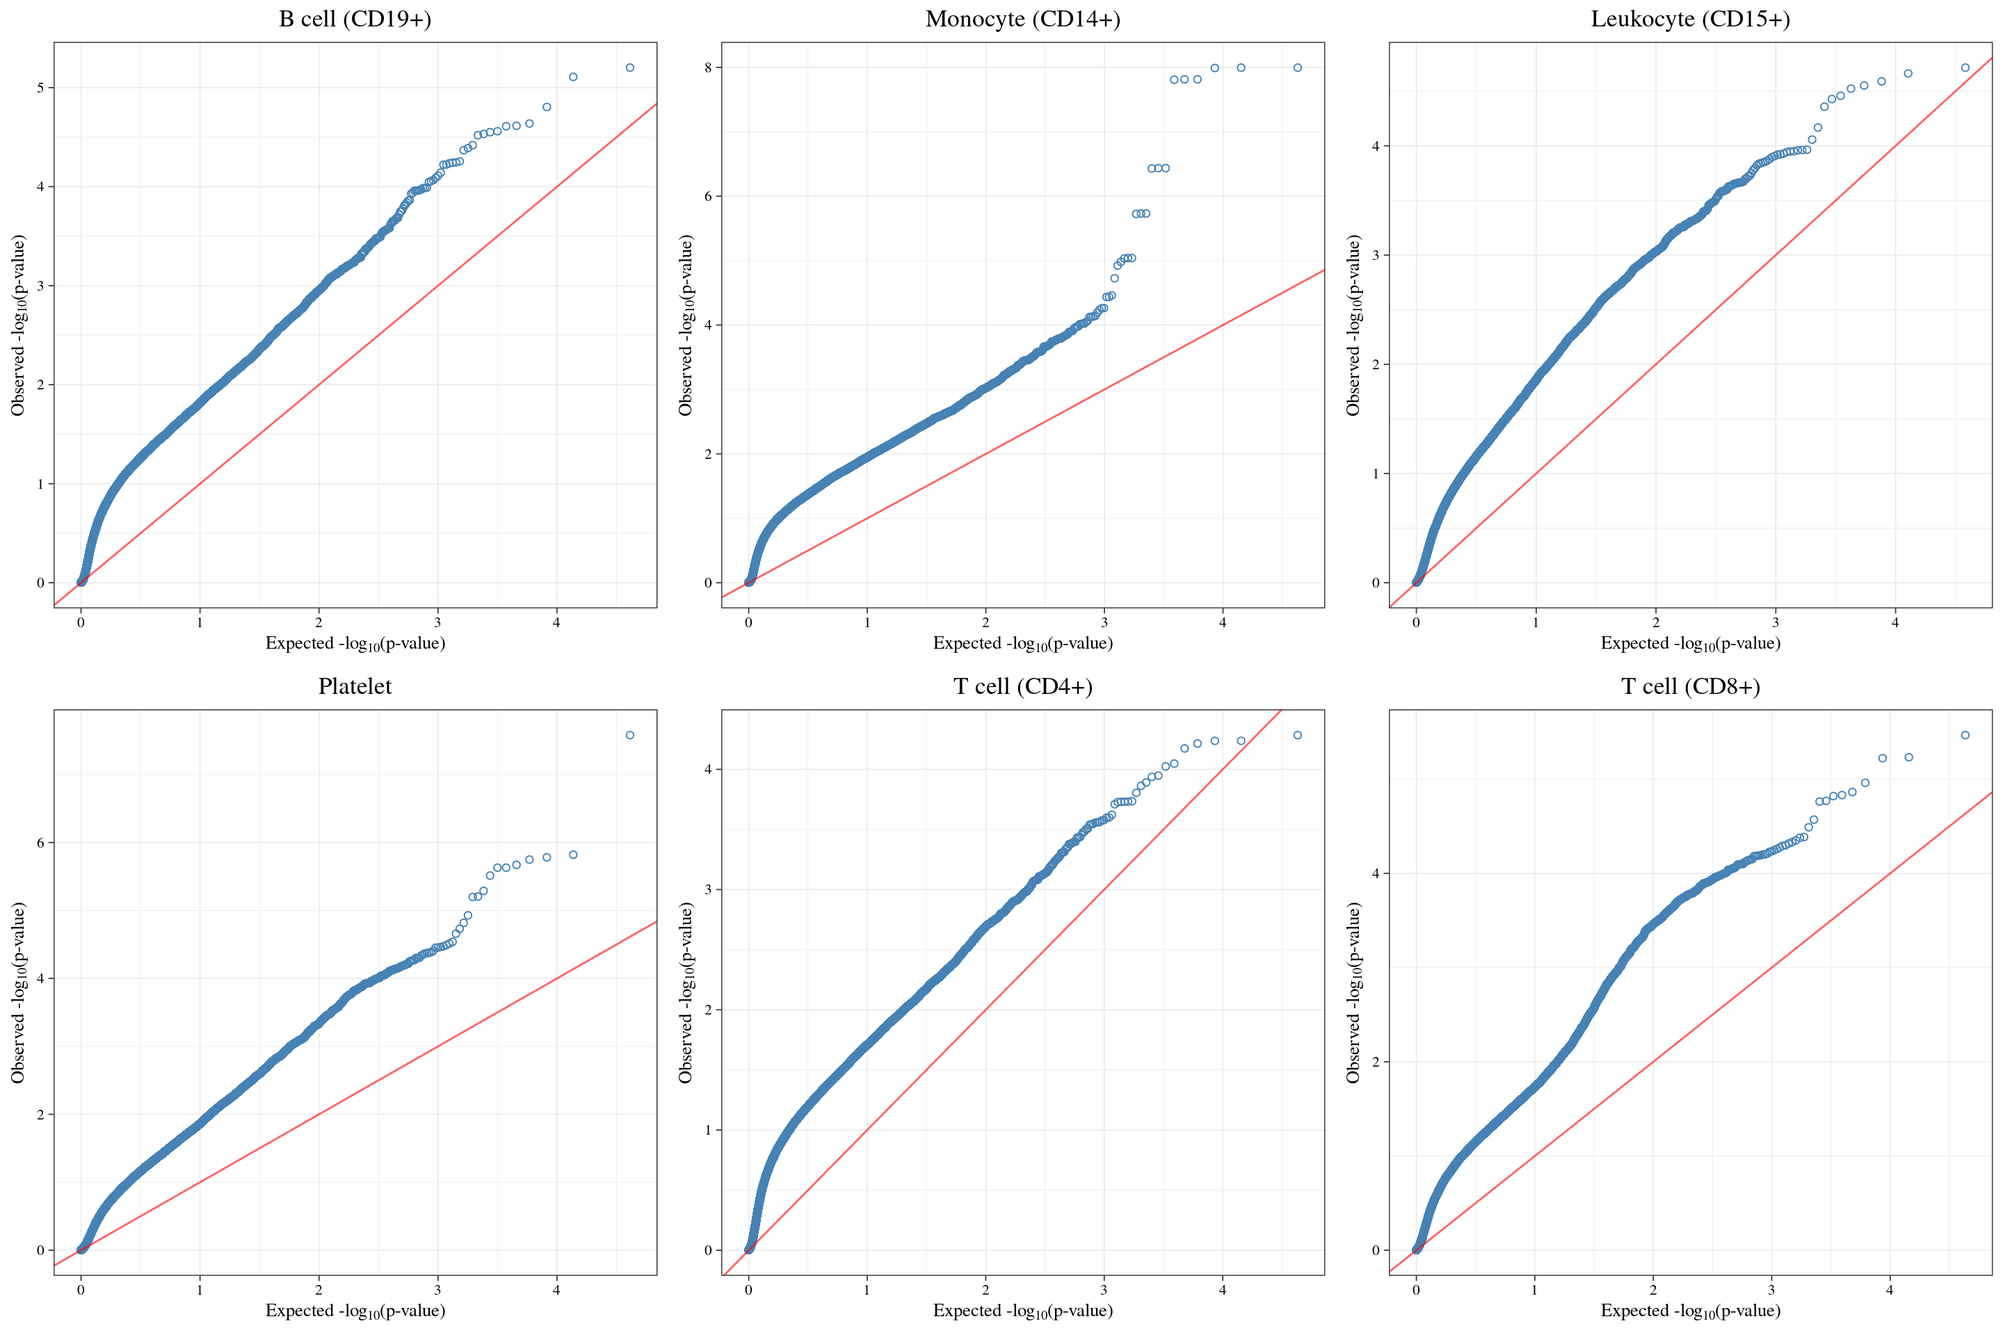
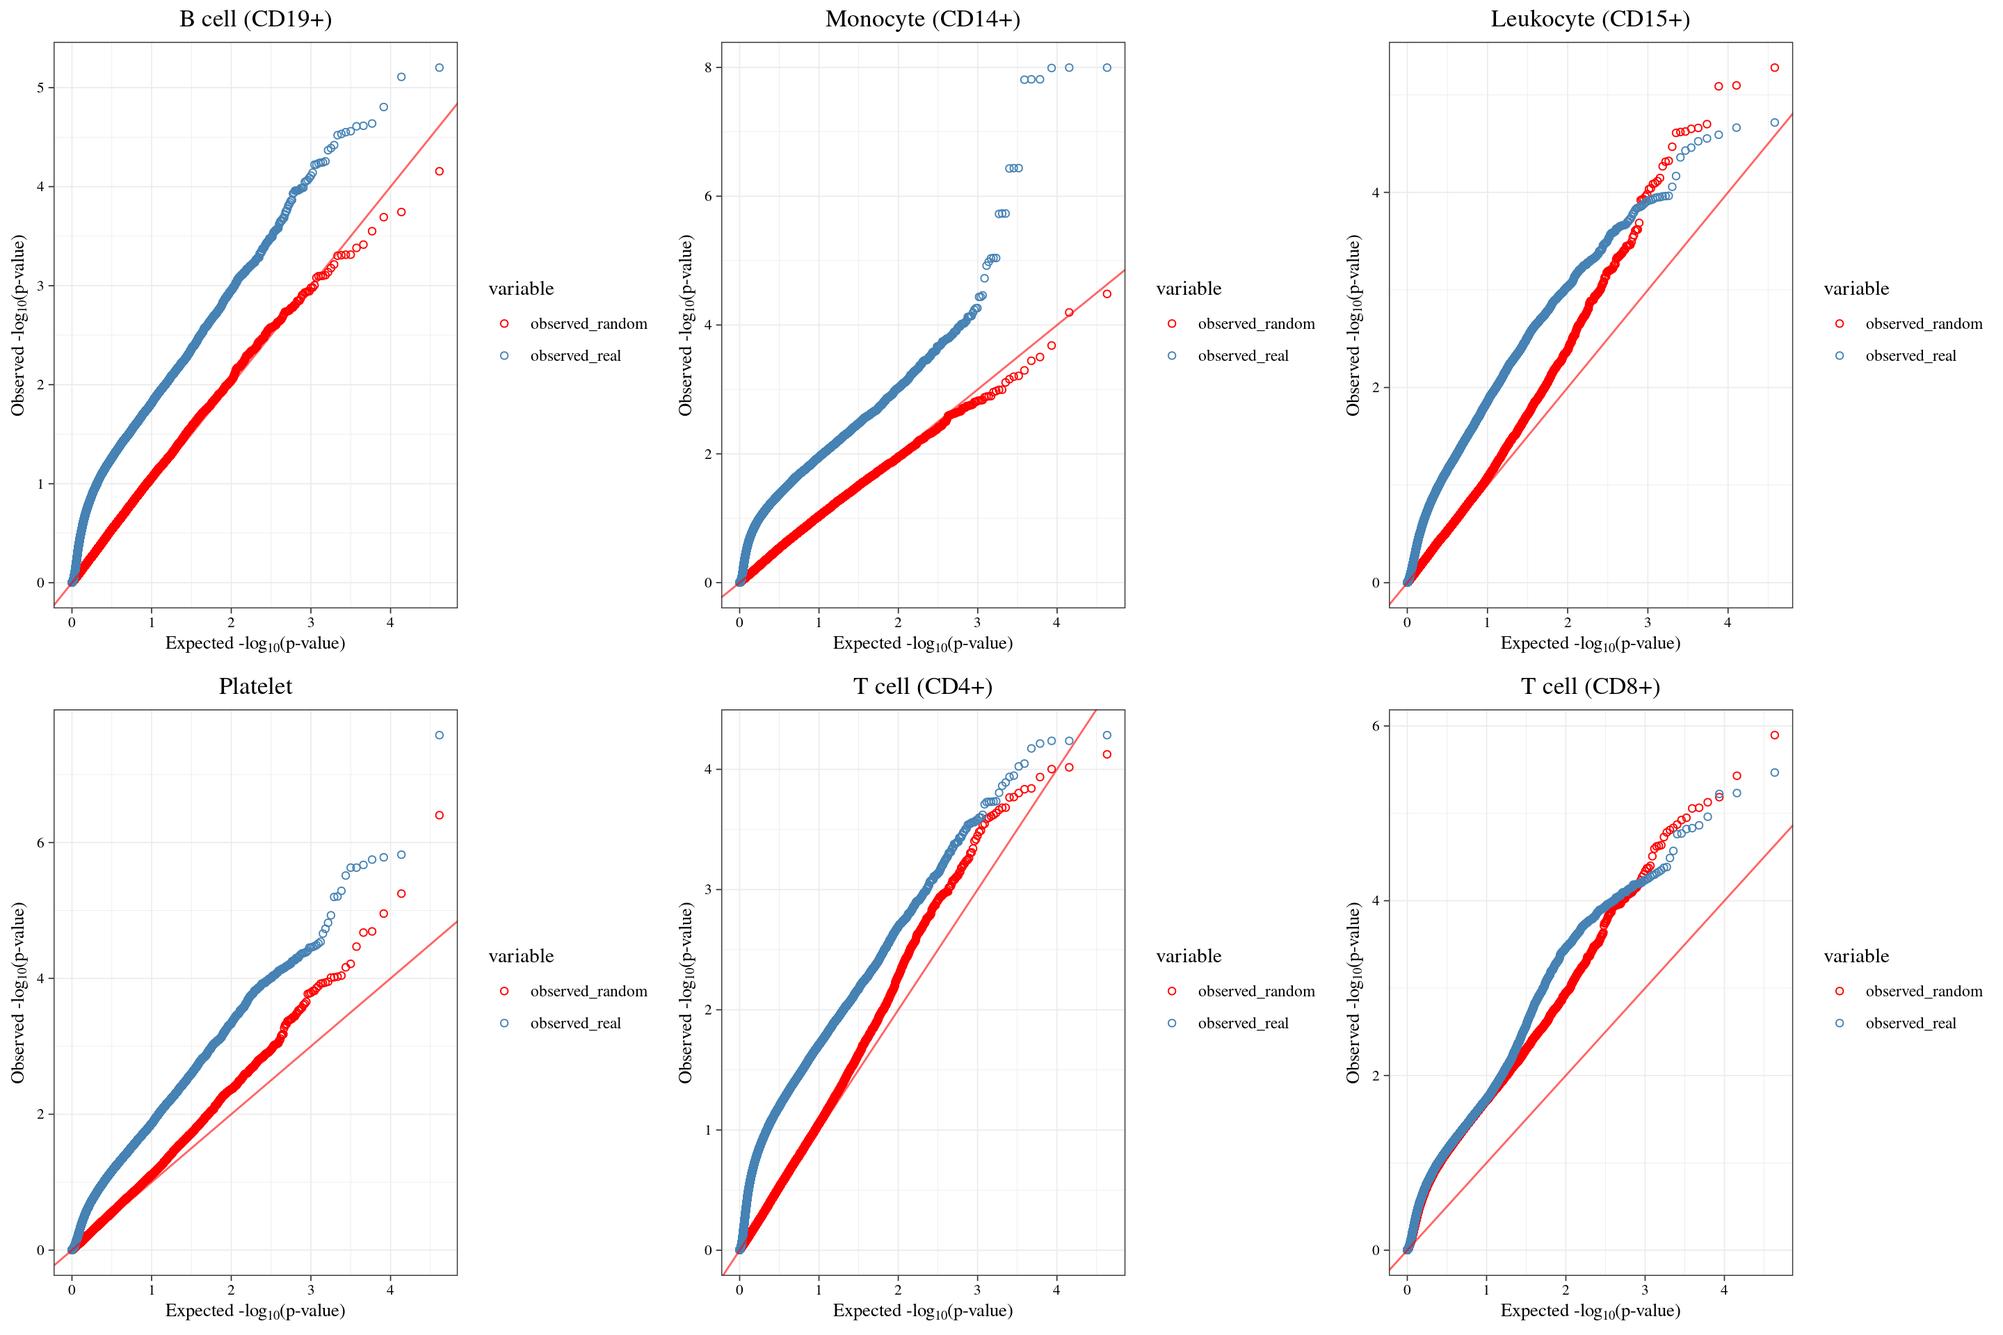
update

diff --git a/docs/ACAT_random.html b/docs/ACAT_random.html
@@ -382,7 +382,7 @@ div.tocify {
 <div class="tab-content">
 <div id="summary" class="tab-pane fade in active">
 <p>
-<strong>Last updated:</strong> 2022-08-17
+<strong>Last updated:</strong> 2022-09-02
 </p>
 <p>
 <strong>Checks:</strong> <span class="glyphicon glyphicon-ok text-success" aria-hidden="true"></span> 6 <span class="glyphicon glyphicon-exclamation-sign text-danger" aria-hidden="true"></span> 1
@@ -473,16 +473,16 @@ This reproducible <a href="http://rmarkdown.rstudio.com">R Markdown</a> analysis
 <div class="panel panel-default">
 <div class="panel-heading">
 <p class="panel-title">
-<a data-toggle="collapse" data-parent="#workflowr-checks" href="#strongRepositoryversionstrongahrefhttpsgithubcomxsun1229factoranalysistreee4382dd341f0e01d3d231418c2463ec88777fc6ftargetblanke4382dda"> <span class="glyphicon glyphicon-ok text-success" aria-hidden="true"></span> <strong>Repository version:</strong> <a href="https://github.com/xsun1229/factor_analysis/tree/e4382dd341f0e01d3d231418c2463ec88777fc6f" target="_blank">e4382dd</a> </a>
+<a data-toggle="collapse" data-parent="#workflowr-checks" href="#strongRepositoryversionstrongahrefhttpsgithubcomxsun1229factoranalysistreef80ea6929a1afd813a43aea04e8529aa29d9f3e7targetblankf80ea69a"> <span class="glyphicon glyphicon-ok text-success" aria-hidden="true"></span> <strong>Repository version:</strong> <a href="https://github.com/xsun1229/factor_analysis/tree/f80ea6929a1afd813a43aea04e8529aa29d9f3e7" target="_blank">f80ea69</a> </a>
 </p>
 </div>
[2 lines of base64/hex data omitted]
 <div class="panel-body">
 <p>
 Great! You are using Git for version control. Tracking code development and connecting the code version to the results is critical for reproducibility.
 </p>
 <p>
-The results in this page were generated with repository version <a href="https://github.com/xsun1229/factor_analysis/tree/e4382dd341f0e01d3d231418c2463ec88777fc6f" target="_blank">e4382dd</a>. See the <em>Past versions</em> tab to see a history of the changes made to the R Markdown and HTML files.
+The results in this page were generated with repository version <a href="https://github.com/xsun1229/factor_analysis/tree/f80ea6929a1afd813a43aea04e8529aa29d9f3e7" target="_blank">f80ea69</a>. See the <em>Past versions</em> tab to see a history of the changes made to the R Markdown and HTML files.
 </p>
 <p>
 Note that you need to be careful to ensure that all relevant files for the analysis have been committed to Git prior to generating the results (you can use <code>wflow_publish</code> or <code>wflow_git_commit</code>). workflowr only checks the R Markdown file, but you know if there are other scripts or data files that it depends on. Below is the status of the Git repository when the results were generated:
@@ -492,7 +492,6 @@ Ignored files:
     Ignored:    .RData
     Ignored:    .Rhistory
     Ignored:    analysis/.Rhistory
-    Ignored:    analysis/figure/
     Ignored:    output/.Rhistory
 
 Unstaged changes:
@@ -535,6 +534,57 @@ Message
 </tr>
 </thead>
 <tbody>
+<tr>
+<td>
+Rmd
+</td>
+<td>
+<a href="https://github.com/xsun1229/factor_analysis/blob/f80ea6929a1afd813a43aea04e8529aa29d9f3e7/analysis/ACAT_random.Rmd" target="_blank">f80ea69</a>
+</td>
+<td>
+XSun
+</td>
+<td>
+2022-08-29
+</td>
+<td>
+update
+</td>
+</tr>
+<tr>
+<td>
+Rmd
+</td>
+<td>
+<a href="https://github.com/xsun1229/factor_analysis/blob/b1b827a3c736cb2f5d5f1287cf2eef72e169a69e/analysis/ACAT_random.Rmd" target="_blank">b1b827a</a>
+</td>
+<td>
+XSun
+</td>
+<td>
+2022-08-17
+</td>
+<td>
+update
+</td>
+</tr>
+<tr>
+<td>
+html
+</td>
+<td>
+<a href="https://rawcdn.githack.com/xsun1229/factor_analysis/b1b827a3c736cb2f5d5f1287cf2eef72e169a69e/docs/ACAT_random.html" target="_blank">b1b827a</a>
+</td>
+<td>
+XSun
+</td>
+<td>
+2022-08-17
+</td>
+<td>
+update
+</td>
+</tr>
 <tr>
 <td>
 Rmd
@@ -1345,8 +1395,10 @@ p_acat</code></pre>
 <pre><code>[1] 0.8346754</code></pre>
 </div>
 </div>
-<div id="acat-for-real-data-mhc-removed" class="section level2">
-<h2>ACAT for real data – MHC removed</h2>
+</div>
+<div id="comparing-acat-for-real-data-and-random-data-mhc-removed" class="section level1">
+<h1>Comparing ACAT for real data and random data – MHC removed</h1>
+<p>We found that the variants in MHC area may lead to the deviation in random ACAT. So we removed the SNPs in MHC area and re-plot the qq plots.</p>
 <p><img src="figure/ACAT_random.Rmd/unnamed-chunk-32-1.png" width="1440" style="display: block; margin: auto;" /></p>
 <p>
 <button type="button" class="btn btn-default btn-xs btn-workflowr btn-workflowr-fig" data-toggle="collapse" data-target="#fig-unnamed-chunk-32-1">
@@ -1385,9 +1437,12 @@ XSun
 </table>
 </div>
 </div>
-</div>
-<div id="acat-for-random-data-mhc-removed" class="section level2">
-<h2>ACAT for random data – MHC removed</h2>
+<p>We noticed that there is some inflations for random data (Leukocyte (CD15+), Platelet, T cell (CD8+)). We compute genomic inflation factors for all cell types.</p>
+<p><span class="math display">\[ chisq = qchisq(1-pvalue,1)\]</span> <span class="math display">\[ lambda = \frac{median(chisq)}{qchisq(0.5,1)} \]</span> The lambda are 1.103569 1.110509 1.133734 1.179766 1.045502 4.582142 accordingly.</p>
+<p>Then we corrected the p-values with the inflation factor – lambda (devide the chi-squares by inflation factors accoring to <a href="https://www.ncbi.nlm.nih.gov/pmc/articles/PMC3133943/" class="uri">https://www.ncbi.nlm.nih.gov/pmc/articles/PMC3133943/</a> and compute the p-values):</p>
+<p><span class="math display">\[ chisq_{adjusted} = \frac{chisq}{lambda}\]</span></p>
+<p><span class="math display">\[ pvalue_{adjusted} = 1 - pchisq(chisq_{adjusted}) \]</span></p>
+<p>The adjusted p-values are shown in the qqplots below (comparing unadjusted real p-values).</p>
 <p><img src="figure/ACAT_random.Rmd/unnamed-chunk-33-1.png" width="1440" style="display: block; margin: auto;" /></p>
 <p>
 <button type="button" class="btn btn-default btn-xs btn-workflowr btn-workflowr-fig" data-toggle="collapse" data-target="#fig-unnamed-chunk-33-1">
@@ -1426,11 +1481,7 @@ XSun
 </table>
 </div>
 </div>
-</div>
-</div>
-<div id="correct-original-acat-results-with-random-ones-all-snps-included" class="section level1">
-<h1>Correct original ACAT results with random ones – All SNPs included</h1>
-<p>There is still slight deviation from null in the random SNPs after removing SNPs in MHC area. So we correct for real ACAT p-values using the distribution of ACAT p-values from random SNPs as null. In this way, we got empirical ACAT p-values computed from sum(p_origin[j] &lt; acat_p_random)/length(p_origin).</p>
+<p>We also compared the adjusted random p-values with adjusted real p-values. The inflation factors for real p-values are 5.775381 6.671074 4.687092 4.605726 5.453085 4.84691.</p>
 <p><img src="figure/ACAT_random.Rmd/unnamed-chunk-34-1.png" width="1440" style="display: block; margin: auto;" /></p>
 <p>
 <button type="button" class="btn btn-default btn-xs btn-workflowr btn-workflowr-fig" data-toggle="collapse" data-target="#fig-unnamed-chunk-34-1">
@@ -1469,10 +1520,131 @@ XSun
 </table>
 </div>
 </div>
-</div>
-<div id="correct-original-acat-results-with-random-ones-mhc-area-removed" class="section level1">
-<h1>Correct original ACAT results with random ones – MHC area removed</h1>
-<p><img src="figure/ACAT_random.Rmd/unnamed-chunk-35-1.png" width="1440" style="display: block; margin: auto;" /></p>
+<!-- ```{r echo=FALSE, message=FALSE, warning=FALSE, paged.print=FALSE,fig.height=10, fig.width=15} -->
+<!-- load("/project2/xinhe/xsun/CEDAR/ACAT_randomsnp/ACAT_results_remove_MHC_realdata.rdata") -->
+<!-- type <- c("B cell (CD19+)","Monocyte (CD14+)","Leukocyte (CD15+)","Platelet","T cell (CD4+)","T cell (CD8+)") -->
+<!-- plot <- list() -->
+<!-- for (i in 1:length(type)){ -->
+<!--   p <- acat_allcelltypes[[i]] -->
+<!--   p[is.na(p)] <- 1 -->
+<!--   plotdata <- data.frame(observed = -log10(sort(p)), -->
+<!--                          expected = -log10(ppoints(length(p)))) -->
+<!--   #   -->
+<!--   plot[[i]] <- ggplot(plotdata) + theme_bw(base_line_size =0.3) + -->
+<!--     geom_point(aes(expected, observed), shape = 1, size = 1.5,color = "steelblue") + -->
+<!--     geom_abline(intercept = 0, slope = 1, alpha = 0.6, color = "red") + -->
+<!--     ggtitle(type[i]) + theme(plot.title = element_text(hjust = 0.5)) + -->
+<!--     labs(x = expression(paste("Expected -log"[10],"(p-value)")), -->
+<!--          y = expression(paste("Observed -log"[10],"(p-value)"))) + -->
+<!--     theme(axis.title.x = element_text(size = 10), -->
+<!--           axis.text.x = element_text(size = 8, color = "black"), -->
+<!--           axis.title.y = element_text(size = 10), -->
+<!--           axis.text.y = element_text(size = 8, color = "black"), -->
+<!--           text= element_text(family="Times New Roman"))  -->
+<!-- } -->
+<!-- all <- grid.arrange(plot[[1]],plot[[2]],plot[[3]],plot[[4]],plot[[5]],plot[[6]], nrow = 2) -->
+<!-- ``` -->
+<!-- ## ACAT for random data -- MHC removed -->
+<!-- ```{r echo=FALSE, message=FALSE, warning=FALSE, paged.print=FALSE,fig.height=10, fig.width=15} -->
+<!-- load("/project2/xinhe/xsun/CEDAR/ACAT_randomsnp/ACAT_results_remove_MHC_random.rdata") -->
+<!-- type <- c("B cell (CD19+)","Monocyte (CD14+)","Leukocyte (CD15+)","Platelet","T cell (CD4+)","T cell (CD8+)") -->
+<!-- plot <- list() -->
+<!-- for (i in 1:length(type)){ -->
+<!--   p <- acat_allcelltypes[[i]] -->
+<!--   p[is.na(p)] <- 1 -->
+<!--   plotdata <- data.frame(observed = -log10(sort(p)), -->
+<!--                          expected = -log10(ppoints(length(p)))) -->
+<!--   #   -->
+<!--   plot[[i]] <- ggplot(plotdata) + theme_bw(base_line_size =0.3) + -->
+<!--     geom_point(aes(expected, observed), shape = 1, size = 1.5,color = "steelblue") + -->
+<!--     geom_abline(intercept = 0, slope = 1, alpha = 0.6, color = "red") + -->
+<!--     ggtitle(type[i]) + theme(plot.title = element_text(hjust = 0.5)) + -->
+<!--     labs(x = expression(paste("Expected -log"[10],"(p-value)")), -->
+<!--          y = expression(paste("Observed -log"[10],"(p-value)"))) + -->
+<!--     theme(axis.title.x = element_text(size = 10), -->
+<!--           axis.text.x = element_text(size = 8, color = "black"), -->
+<!--           axis.title.y = element_text(size = 10), -->
+<!--           axis.text.y = element_text(size = 8, color = "black"), -->
+<!--           text= element_text(family="Times New Roman"))  -->
+<!-- } -->
+<!-- all <- grid.arrange(plot[[1]],plot[[2]],plot[[3]],plot[[4]],plot[[5]],plot[[6]], nrow = 2) -->
+<!-- ``` -->
+<!-- # Correct original ACAT results with random ones -- All SNPs included -->
+<!-- There is still slight deviation from null in the random SNPs after removing SNPs in MHC area. So we correct for real ACAT p-values using the distribution of ACAT p-values from random SNPs as null. In this way, we got empirical ACAT p-values computed from   sum(p_origin[j] < acat_p_random)/length(p_origin). -->
+<!-- ```{r echo=FALSE, message=FALSE, warning=FALSE, paged.print=FALSE,fig.height=10, fig.width=15} -->
+<!-- setwd("/project2/xinhe/xsun/CEDAR/") -->
+<!-- type <- c("B cell (CD19+)","Monocyte (CD14+)","Leukocyte (CD15+)","Platelet","T cell (CD4+)","T cell (CD8+)") -->
+<!-- path <- c("4.B_cell_kegg","6.CD14_positive_monocyte_kegg","8.CD15_positive_leukocyte_kegg","16.platelet_kegg","10.T_cell_kegg","14.thymocyte_kegg") -->
+<!-- load("/project2/xinhe/xsun/CEDAR/ACAT_randomsnp/ACAT_results.rdata") -->
+<!-- p_correct_allcelltypes <- list() -->
+<!-- for (i in 1:length(type)){ -->
+<!--   file <- paste0("/project2/xinhe/xsun/CEDAR/",path[i],"/7.geneset40_peer/acat.rdata") -->
+<!--   load(file) -->
+<!--   p_origin <- as.numeric(list$pval_acat) -->
+<!--   acat_cell_random <- acat_allcelltypes[[i]] -->
+<!--   acat_cell_random[acat_cell_random == "NaN"] <- 0.00001 -->
+<!--   p_correct <- c() -->
+<!--   for (j in 1:length(p_origin)) { -->
+<!--     p_correct[j] <- sum(p_origin[j] < acat_cell_random)/length(p_origin) -->
+<!--   } -->
+<!--   p_correct_allcelltypes[[i]] <- p_correct -->
+<!-- } -->
+<!-- p <- list() -->
+<!-- for (i in 1:length(p_correct_allcelltypes)){ -->
+<!--   plotdata <- data.frame(observed = -log10(sort(as.numeric(as.character(p_correct_allcelltypes[[i]])))), -->
+<!--                          expected = -log10(ppoints(length(p_correct_allcelltypes[[i]])))) -->
+<!--   #   -->
+<!--   p[[i]] <- ggplot(plotdata) + theme_bw(base_line_size =0.3) + -->
+<!--     geom_point(aes(expected, observed), shape = 1, size = 1.5, color= "steelblue") + -->
+<!--     geom_abline(intercept = 0, slope = 1, alpha = 0.6, color = "red") + -->
+<!--     ggtitle(type[i]) + theme(plot.title = element_text(hjust = 0.5)) + -->
+<!--     labs(x = expression(paste("Expected -log"[10],"(p-value)")), -->
+<!--          y = expression(paste("Observed -log"[10],"(p-value)"))) + -->
+<!--     theme(axis.title.x = element_text(size = 10), -->
+<!--           axis.text.x = element_text(size = 8, color = "black"), -->
+<!--           axis.title.y = element_text(size = 10), -->
+<!--           axis.text.y = element_text(size = 8, color = "black"), -->
+<!--           text= element_text(family="Times New Roman"))  -->
+<!-- } -->
+<!-- all <- grid.arrange(p[[1]],p[[2]],p[[3]],p[[4]],p[[5]],p[[6]], nrow = 2) -->
+<!-- ``` -->
+<!-- # Correct original ACAT results with random ones -- MHC area removed -->
+<!-- ```{r echo=FALSE, message=FALSE, warning=FALSE, paged.print=FALSE,fig.height=10, fig.width=15} -->
+<!-- type <- c("B cell (CD19+)","Monocyte (CD14+)","Leukocyte (CD15+)","Platelet","T cell (CD4+)","T cell (CD8+)") -->
+<!-- load("/project2/xinhe/xsun/CEDAR/ACAT_randomsnp/ACAT_results_remove_MHC_random.rdata") -->
+<!-- acat_random <- acat_allcelltypes -->
+<!-- load("/project2/xinhe/xsun/CEDAR/ACAT_randomsnp/ACAT_results_remove_MHC_realdata.rdata") -->
+<!-- acat_real <- acat_allcelltypes -->
+<!-- p_correct_allcelltypes <- list() -->
+<!-- for (i in 1:length(acat_real)){ -->
+<!--   p_origin <- as.numeric(as.character(acat_real[[i]])) -->
+<!--   acat_cell_random <- as.numeric(as.character(acat_random[[i]])) -->
+<!--   acat_cell_random[acat_cell_random == "NaN"] <- 0.00001 -->
+<!--   p_correct <- c() -->
+<!--   for (j in 1:length(p_origin)) { -->
+<!--     p_correct[j] <- sum(p_origin[j] < acat_cell_random)/length(p_origin) -->
+<!--   } -->
+<!--   p_correct_allcelltypes[[i]] <- p_correct -->
+<!-- } -->
+<!-- p <- list() -->
+<!-- for (i in 1:length(p_correct_allcelltypes)){ -->
+<!--   plotdata <- data.frame(observed = -log10(sort(as.numeric(as.character(p_correct_allcelltypes[[i]])))), -->
+<!--                          expected = -log10(ppoints(length(p_correct_allcelltypes[[i]])))) -->
+<!--   #   -->
+<!--   p[[i]] <- ggplot(plotdata) + theme_bw(base_line_size =0.3) + -->
+<!--     geom_point(aes(expected, observed), shape = 1, size = 1.5, color= "steelblue") + -->
+<!--     geom_abline(intercept = 0, slope = 1, alpha = 0.6, color = "red") + -->
+<!--     ggtitle(type[i]) + theme(plot.title = element_text(hjust = 0.5)) + -->
+<!--     labs(x = expression(paste("Expected -log"[10],"(p-value)")), -->
+<!--          y = expression(paste("Observed -log"[10],"(p-value)"))) + -->
+<!--     theme(axis.title.x = element_text(size = 10), -->
+<!--           axis.text.x = element_text(size = 8, color = "black"), -->
+<!--           axis.title.y = element_text(size = 10), -->
+<!--           axis.text.y = element_text(size = 8, color = "black"), -->
+<!--           text= element_text(family="Times New Roman"))  -->
+<!-- } -->
+<!-- all <- grid.arrange(p[[1]],p[[2]],p[[3]],p[[4]],p[[5]],p[[6]], nrow = 2) -->
+<!-- ``` -->
 <br>
 <p>
 <button type="button" class="btn btn-default btn-workflowr btn-workflowr-sessioninfo" data-toggle="collapse" data-target="#workflowr-sessioninfo" style="display: block;">
@@ -1500,22 +1672,23 @@ attached base packages:
 [1] stats     graphics  grDevices utils     datasets  methods   base     
 
 other attached packages:
-[1] ACAT_0.91     gridExtra_2.3 ggplot2_3.3.5
+[1] data.table_1.14.0 ACAT_0.91         gridExtra_2.3     ggplot2_3.3.5    
 
 loaded via a namespace (and not attached):
- [1] Rcpp_1.0.8        highr_0.8         pillar_1.6.5      compiler_4.0.4   
- [5] bslib_0.2.4       later_1.1.0.1     jquerylib_0.1.3   git2r_0.28.0     
- [9] workflowr_1.6.2   tools_4.0.4       digest_0.6.27     jsonlite_1.7.2   
-[13] evaluate_0.14     lifecycle_1.0.0   tibble_3.1.6      gtable_0.3.0     
-[17] pkgconfig_2.0.3   rlang_0.4.12      DBI_1.1.1         yaml_2.2.1       
-[21] xfun_0.29         withr_2.4.3       dplyr_1.0.7       stringr_1.4.0    
-[25] knitr_1.31        generics_0.1.0    fs_1.5.0          vctrs_0.3.8      
-[29] sass_0.3.1        tidyselect_1.1.0  rprojroot_2.0.2   grid_4.0.4       
-[33] glue_1.6.2        R6_2.5.0          fansi_0.4.2       rmarkdown_2.7    
-[37] farver_2.1.0      purrr_0.3.4       magrittr_2.0.1    whisker_0.4      
-[41] scales_1.1.1      promises_1.2.0.1  ellipsis_0.3.2    htmltools_0.5.1.1
-[45] assertthat_0.2.1  colorspace_2.0-0  httpuv_1.5.5      labeling_0.4.2   
-[49] utf8_1.2.2        stringi_1.5.3     munsell_0.5.0     crayon_1.4.1     </code></pre>
+ [1] Rcpp_1.0.8        plyr_1.8.6        highr_0.8         pillar_1.6.5     
+ [5] compiler_4.0.4    bslib_0.2.4       later_1.1.0.1     jquerylib_0.1.3  
+ [9] git2r_0.28.0      workflowr_1.6.2   tools_4.0.4       digest_0.6.27    
+[13] jsonlite_1.7.2    evaluate_0.14     lifecycle_1.0.0   tibble_3.1.6     
+[17] gtable_0.3.0      pkgconfig_2.0.3   rlang_0.4.12      DBI_1.1.1        
+[21] yaml_2.2.1        xfun_0.29         withr_2.4.3       dplyr_1.0.7      
+[25] stringr_1.4.0     knitr_1.31        generics_0.1.0    fs_1.5.0         
+[29] vctrs_0.3.8       sass_0.3.1        tidyselect_1.1.0  rprojroot_2.0.2  
+[33] grid_4.0.4        glue_1.6.2        R6_2.5.0          fansi_0.4.2      
+[37] rmarkdown_2.7     reshape2_1.4.4    farver_2.1.0      purrr_0.3.4      
+[41] magrittr_2.0.1    whisker_0.4       scales_1.1.1      promises_1.2.0.1 
+[45] ellipsis_0.3.2    htmltools_0.5.1.1 assertthat_0.2.1  colorspace_2.0-0 
+[49] httpuv_1.5.5      labeling_0.4.2    utf8_1.2.2        stringi_1.5.3    
+[53] munsell_0.5.0     crayon_1.4.1     </code></pre>
 </div>
 </div>
 
